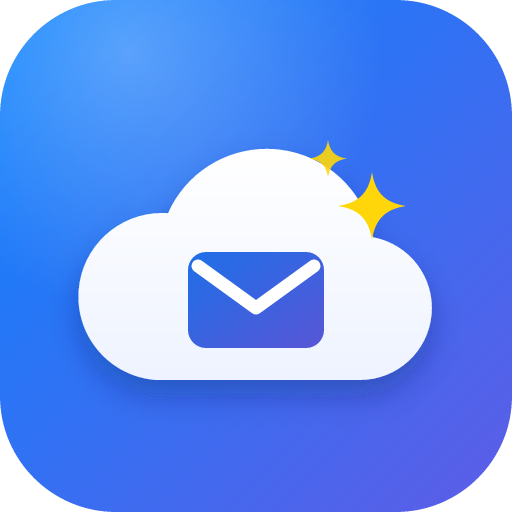
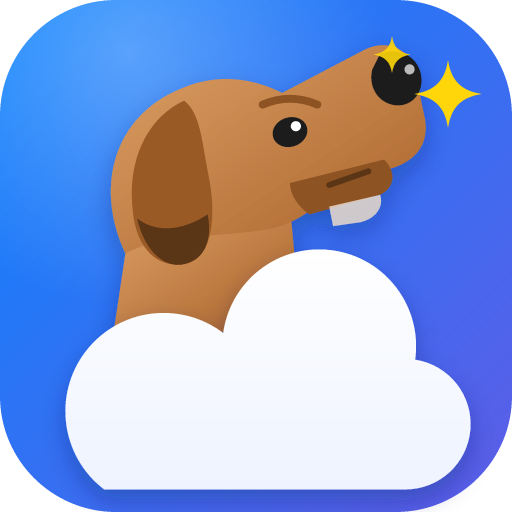
New artwork: Frieda looking out of the cloud
Icon and logos now show Frieda, the dog the project is named after, watching
the AI spark from behind the iCloud cloud; light/dark logos and the brand/
set are rebuilt from the SVG sources.

diff --git a/README.de.md b/README.de.md
@@ -24,7 +24,8 @@
 Home-Assistant-**LLM-API** registriert und über einen **eigenen MCP-Endpunkt** (`/api/friedafetch`, Streamable HTTP)
 sowie optional über die **MCP-Server-Integration** von Home Assistant (Model Context Protocol) an MCP-Clients wie
 Claude, ChatGPT-Connectors oder lokale Agenten ausgeliefert. Sie stehen außerdem jedem Home-Assistant-Sprachassistenten
-(Assist, Google Generative AI, OpenAI, Ollama …) zur Verfügung, der diese LLM-API aktiviert hat.
+(Assist, Google Generative AI, OpenAI, Ollama …) zur Verfügung, der diese LLM-API aktiviert hat. Benannt ist das Projekt nach Frieda, der Hündin des Maintainers, die im Logo aus der
+Wolke schaut.
 
 ## Funktionsumfang
 

diff --git a/README.md b/README.md
@@ -24,6 +24,7 @@
 **LLM API**, so they are available to every conversation agent that enables the API (Assist, Google Generative AI,
 OpenAI, Ollama …) and to any **MCP client** (Claude, ChatGPT connectors, local agents) through Home Assistant's
 MCP Server integration or the integration's own MCP endpoint. Inbox rules can be managed in a sidebar panel.
+The project is named after the maintainer's dog Frieda, who looks out of the cloud in the logo.
 
 ## Features
 
